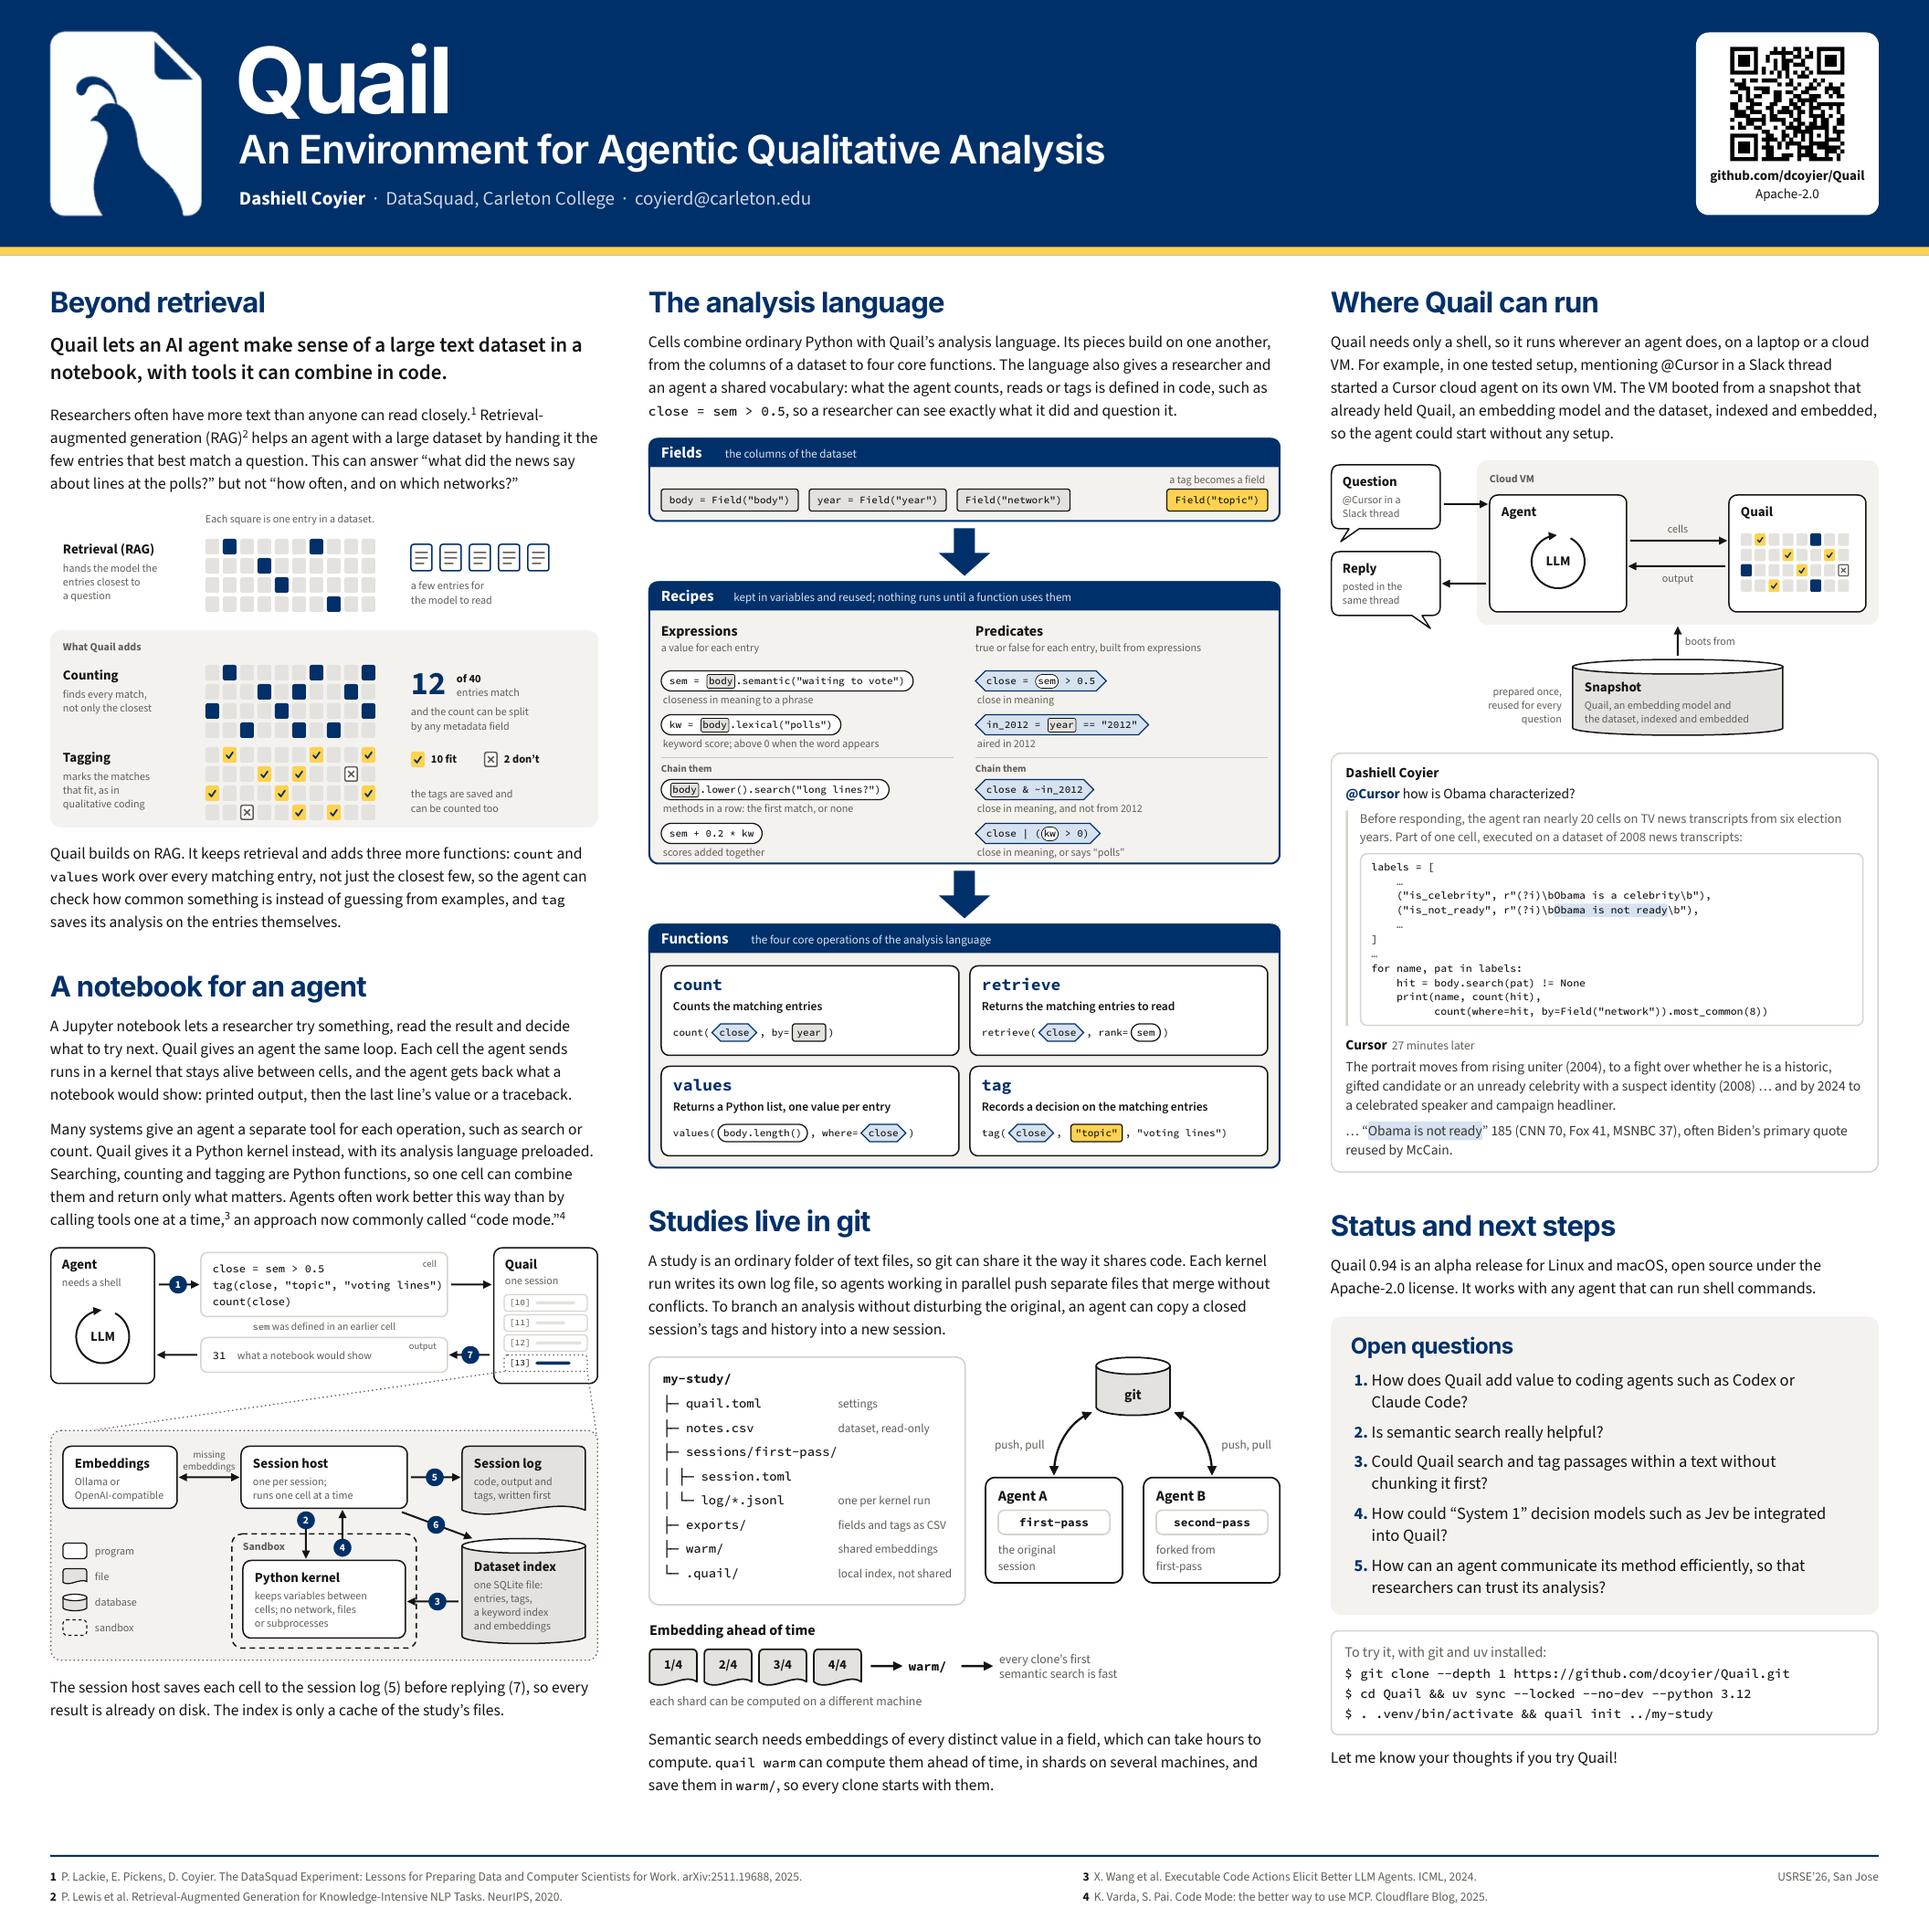
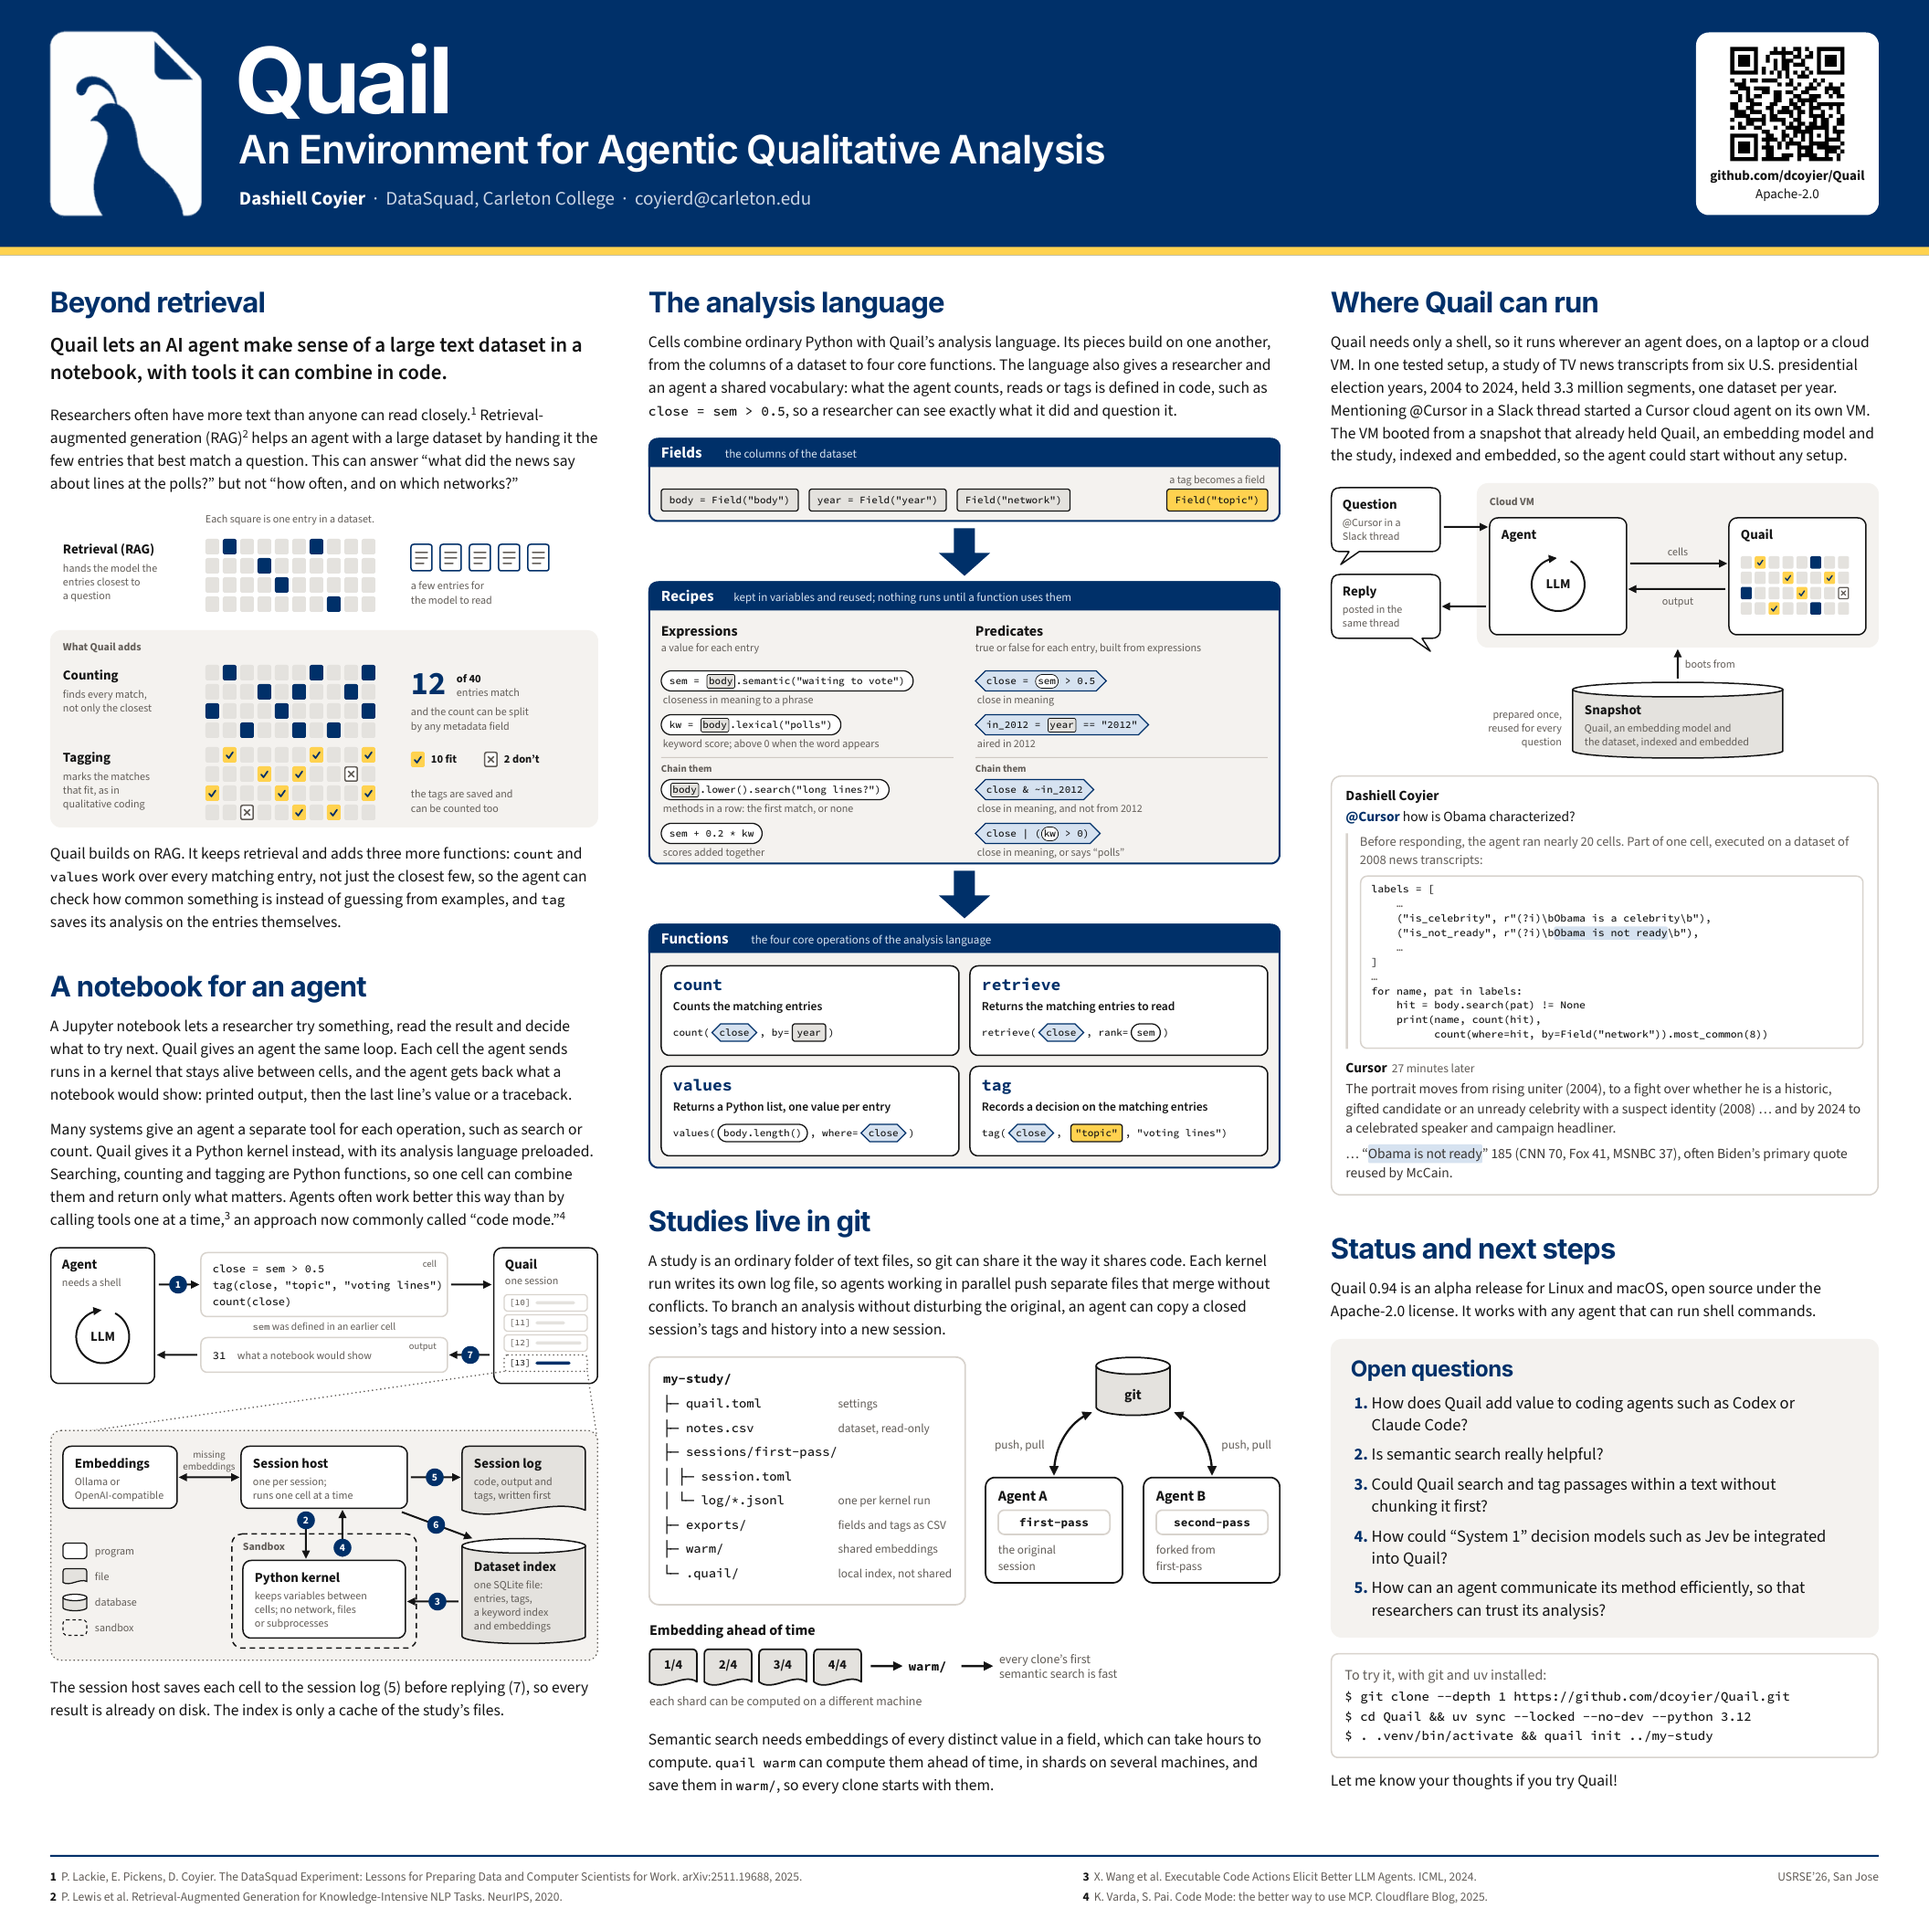
Introduce the election news study before the Slack example
The deploy paragraph now says what the study holds: TV news transcripts
from six presidential election years, 3.3 million segments, one dataset per
year. The Slack card no longer repeats that.

Claude-Session: https://claude.ai/code/session_01ChZ8DmmKvsKSV4JFVieZLU

Changed region(s): [[0.6875, 0.1875, 0.9688, 0.9375]]

diff --git a/poster/poster.html b/poster/poster.html
@@ -63,13 +63,13 @@
 
 <section id="where">
   <h2>Where Quail can run</h2>
-  <p>Quail needs only a shell, so it runs wherever an agent does, on a laptop or a cloud VM. For example, in one tested setup, mentioning @Cursor in a Slack thread started a Cursor cloud agent on its own VM. The VM booted from a snapshot that already held Quail, an embedding model and the dataset, indexed and embedded, so the agent could start without any setup.</p>
+  <p>Quail needs only a shell, so it runs wherever an agent does, on a laptop or a cloud VM. In one tested setup, a study of TV news transcripts from six U.S. presidential election years, 2004 to 2024, held 3.3 million segments, one dataset per year. Mentioning @Cursor in a Slack thread started a Cursor cloud agent on its own VM. The VM booted from a snapshot that already held Quail, an embedding model and the study, indexed and embedded, so the agent could start without any setup.</p>
   <figure><img src="figures/deploy.svg" alt="A question in Slack starts a cloud VM that boots from a snapshot holding Quail, an embedding model and the dataset, indexed and embedded; on the VM the agent sends cells to Quail, reads their output and posts its reply in the same thread"></figure>
   <div class="thread">
     <div><span class="who">Dashiell Coyier</span></div>
     <p class="q"><span class="mention">@Cursor</span> how is Obama characterized?</p>
     <div class="work">
-      <p>Before responding, the agent ran nearly 20 cells on TV news transcripts from six election years. Part of one cell, executed on a dataset of 2008 news transcripts:</p>
+      <p>Before responding, the agent ran nearly 20 cells. Part of one cell, executed on a dataset of 2008 news transcripts:</p>
       <div class="cell"><pre>labels = [
     <span class="el">&hellip;</span>
     ("is_celebrity", r"(?i)\bObama is a celebrity\b"),
